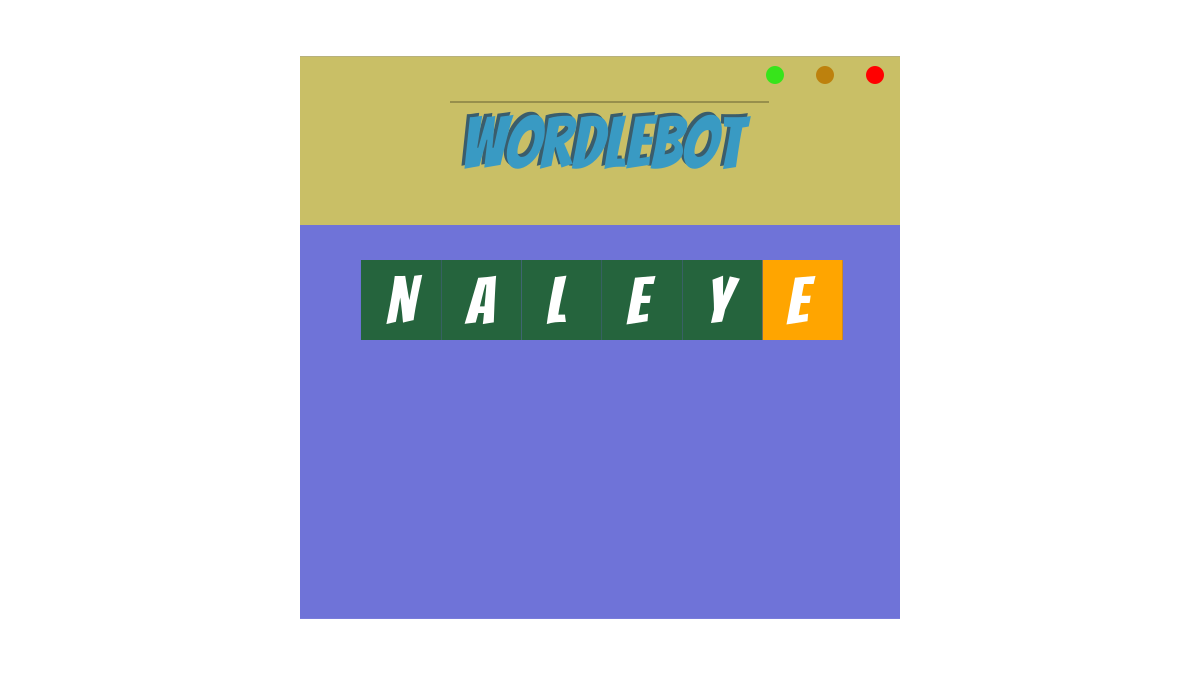
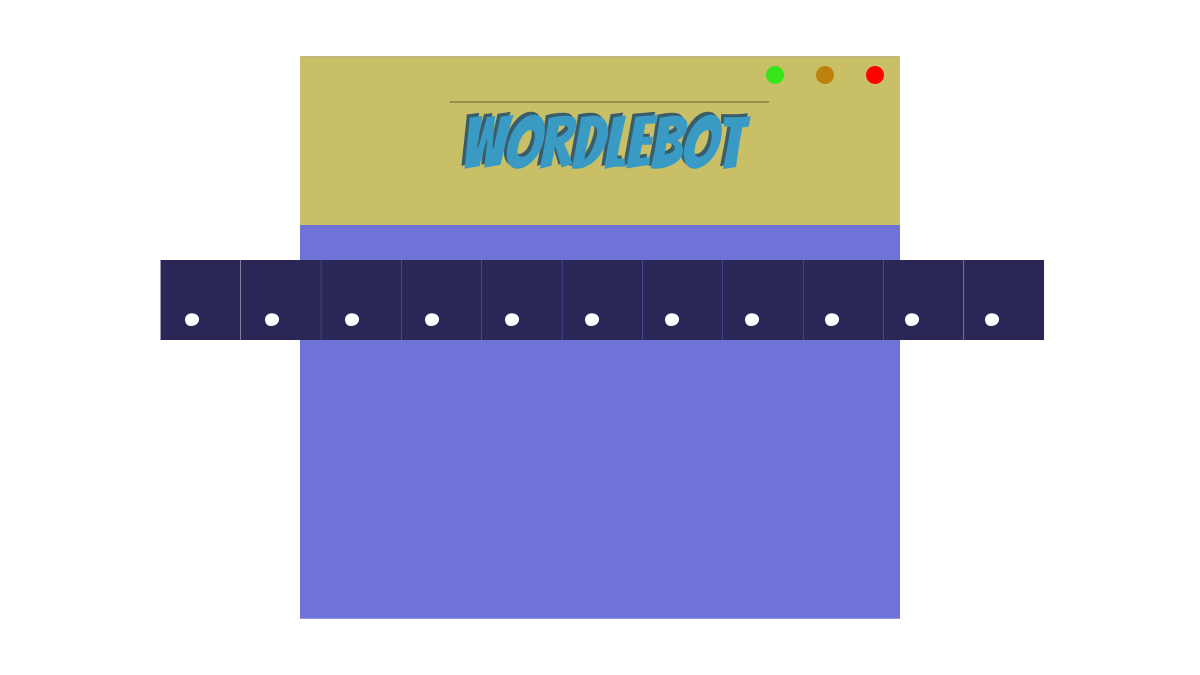
.gitignore

Changed region(s): [[0.1233, 0.3733, 0.8942, 0.5289]]

diff --git a/src/structures/Wordle.ts b/src/structures/Wordle.ts
@@ -22,29 +22,21 @@ export default class Wordle {
 
     public createRow(word: string, playerAttemps: [AttempMapType], round: number): void {
 
-        console.log("joué. Wordle", round)
+        console.log("<<< CreateRow >>>", round)
 
         let WORD = this.WORD.length;
- 
+
         const CUBE_SIZE = this.CANVAS_WIDTH / 15;
         const CUBE_OFFSET = 0.35;
         const ROW_SIZE = CUBE_SIZE * WORD + (WORD * CUBE_OFFSET) / 2;
         const CUBE_BASE = (this.CANVAS_WIDTH / 2 - ROW_SIZE / 2) + 1.5
 
-        if (round == 0) {
-            for (let i = 0; i < WORD; i++) {
-                this.GAME_CANVAS_CTX.fillStyle = '#2a2756'
-
-                //CUBE
-                this.GAME_CANVAS_CTX.fillRect(CUBE_BASE + (i * CUBE_SIZE) + CUBE_OFFSET * i, this.CANVAS_HEIGHT / 3 + 35, CUBE_SIZE, CUBE_SIZE)
-            }
-        }
 
         for (let a = round; a < playerAttemps.length; a++) {
             for (let i = 0; i < WORD; i++) {
                 console.log("ok")
                 //CUBE
-                switch (playerAttemps[a].get(i)) {
+                switch (playerAttemps[a].infoPosition.get(i)) {
                     case 0: {
                         this.GAME_CANVAS_CTX.fillStyle = '#2a27'
                         break;
@@ -70,6 +62,88 @@ export default class Wordle {
 
         this.saveCanvasToImg(this.GAME_CANVAS);
     }
+
+    public createEmptyRow(word: string, playerAttemps: [AttempMapType], round: number): void {
+
+        console.log("<<< CreateEmptyRow >>>", round)
+
+        let WORD = this.WORD.length;
+
+        const CUBE_SIZE = this.CANVAS_WIDTH / 15;
+        const CUBE_OFFSET = 0.35;
+        const ROW_SIZE = CUBE_SIZE * WORD + (WORD * CUBE_OFFSET) / 2;
+        const CUBE_BASE = (this.CANVAS_WIDTH / 2 - ROW_SIZE / 2) + 1.5
+   
+
+        for (let i = 0; i < WORD; i++) {
+
+
+            if(playerAttemps[round] ){
+                switch (playerAttemps[round].infoPosition.get(i)) {
+                    case 0: {
+                        this.GAME_CANVAS_CTX.fillStyle = '#2a27'
+                        this.GAME_CANVAS_CTX.fillRect(CUBE_BASE + (i * CUBE_SIZE) + CUBE_OFFSET * i, this.CANVAS_HEIGHT / 3 + 35 + round * CUBE_SIZE + round* CUBE_OFFSET, CUBE_SIZE, CUBE_SIZE)
+                        this.GAME_CANVAS_CTX.font = '65px Bangers '
+                        this.GAME_CANVAS_CTX.fillStyle = "#fff"
+                        this.GAME_CANVAS_CTX.fillText(word[i], (CUBE_BASE + (i * CUBE_SIZE) + CUBE_SIZE / 2 - 15), this.CANVAS_HEIGHT / 3 + 25 + round * CUBE_SIZE + round * CUBE_OFFSET + CUBE_SIZE - 6)
+            
+                        break;
+                    }
+                    default: {
+                        this.GAME_CANVAS_CTX.fillStyle = '#2a2756'
+                        this.GAME_CANVAS_CTX.fillRect(CUBE_BASE + (i * CUBE_SIZE) + CUBE_OFFSET * i, this.CANVAS_HEIGHT / 3 + 35 + round * CUBE_SIZE + round* CUBE_OFFSET, CUBE_SIZE, CUBE_SIZE)
+                        this.GAME_CANVAS_CTX.font = '65px Bangers '
+                        this.GAME_CANVAS_CTX.fillStyle = "#fff"
+                        this.GAME_CANVAS_CTX.fillText(".", (CUBE_BASE + (i * CUBE_SIZE) + CUBE_SIZE / 2 - 15), this.CANVAS_HEIGHT / 3 + 25 + round * CUBE_SIZE + round * CUBE_OFFSET + CUBE_SIZE - 6)
+            
+                        break;
+                    }
+                }
+            }
+            else if(playerAttemps[round-1]){
+                switch (playerAttemps[round-1].infoPosition.get(i)) {
+                    case 0: {
+                        this.GAME_CANVAS_CTX.fillStyle = '#2a27'
+                        this.GAME_CANVAS_CTX.fillRect(CUBE_BASE + (i * CUBE_SIZE) + CUBE_OFFSET * i, this.CANVAS_HEIGHT / 3 + 35 + round * CUBE_SIZE + round* CUBE_OFFSET, CUBE_SIZE, CUBE_SIZE)
+                        this.GAME_CANVAS_CTX.font = '65px Bangers '
+                        this.GAME_CANVAS_CTX.fillStyle = "#fff"
+                        this.GAME_CANVAS_CTX.fillText(word[i], (CUBE_BASE + (i * CUBE_SIZE) + CUBE_SIZE / 2 - 15), this.CANVAS_HEIGHT / 3 + 25 + round * CUBE_SIZE + round * CUBE_OFFSET + CUBE_SIZE - 6)
+            
+                        break;
+                    }
+                    default: {
+                        this.GAME_CANVAS_CTX.fillStyle = '#2a2756'
+                        this.GAME_CANVAS_CTX.fillRect(CUBE_BASE + (i * CUBE_SIZE) + CUBE_OFFSET * i, this.CANVAS_HEIGHT / 3 + 35 + round * CUBE_SIZE + round* CUBE_OFFSET, CUBE_SIZE, CUBE_SIZE)
+                        this.GAME_CANVAS_CTX.font = '65px Bangers '
+                        this.GAME_CANVAS_CTX.fillStyle = "#fff"
+                        this.GAME_CANVAS_CTX.fillText(".", (CUBE_BASE + (i * CUBE_SIZE) + CUBE_SIZE / 2 - 15), this.CANVAS_HEIGHT / 3 + 25 + round * CUBE_SIZE + round * CUBE_OFFSET + CUBE_SIZE - 6)
+            
+                        break;
+                    }
+                }
+
+            }
+            else{
+                this.GAME_CANVAS_CTX.fillStyle = '#2a2756'
+                this.GAME_CANVAS_CTX.fillRect(CUBE_BASE + (i * CUBE_SIZE) + CUBE_OFFSET * i, this.CANVAS_HEIGHT / 3 + 35 + round * CUBE_SIZE + round* CUBE_OFFSET, CUBE_SIZE, CUBE_SIZE)
+                this.GAME_CANVAS_CTX.font = '65px Bangers '
+                this.GAME_CANVAS_CTX.fillStyle = "#fff"
+                this.GAME_CANVAS_CTX.fillText(".", (CUBE_BASE + (i * CUBE_SIZE) + CUBE_SIZE / 2 - 15), this.CANVAS_HEIGHT / 3 + 25 + round * CUBE_SIZE + round * CUBE_OFFSET + CUBE_SIZE - 6)
+    
+            }
+
+            console.log(round)
+            //CUBE
+            
+
+            
+
+        }
+
+
+        this.saveCanvasToImg(this.GAME_CANVAS);
+    }
+
 
 
     public createBackground() {

diff --git a/src/structures/Game.ts b/src/structures/Game.ts
@@ -17,16 +17,23 @@ export default class Game implements GameInterface{
         public playerAttemps = [],
         public state: State="pending",
     ){
-        console.log(word)
 
-        this.canvas.createBackground();
-        //@ts-ignore
-        this.canvas.createRow(this.word.word,this.playerAttemps,this.round);
-
+        this.initCanvas();
+        console.log(this.word.word)
     }
 
+    public initCanvas(): void {
+
+        this.canvas = new Wordle(this.word.word);
+        this.canvas.createBackground();
+        
+        //@ts-ignore
+        this.canvas.createEmptyRow(this.word.word,this.playerAttemps,this.round);
+        
+    }
 
     public playWord(word: string): void{
+        
         
         word = word.toUpperCase();
         if(word.length !== this.word.word.length){
@@ -38,28 +45,38 @@ export default class Game implements GameInterface{
 
         else{
 
-            const attempMap: AttempMapType = new Map();
+            const attempMap: AttempMapType = {word,infoPosition: new Map()};
 
             for(let i=0;i<this.word.word.length;i++){
                 
 
                 if(word[i] === this.word.word[i]){
-                    attempMap.set(i,letterPosition.GOOD);
+                    attempMap.infoPosition.set(i,letterPosition.GOOD);
                 }
                 else if(this.word.word.indexOf(word[i]) > -1){
-                    attempMap.set(i,letterPosition.SOMEWHERE);
+                    attempMap.infoPosition.set(i,letterPosition.SOMEWHERE);
                 }
                 else {
-                    attempMap.set(i,letterPosition.BAD);
+                    attempMap.infoPosition.set(i,letterPosition.BAD);
                 }
 
             }
             this.playerAttemps.push(attempMap);
             this.canvas.createBackground();
+
+            for(var i=0;i<this.playerAttemps.length;i++){
+                console.log(i)  
+                //@ts-ignore
+                this.canvas.createRow(this.playerAttemps[i].word,this.playerAttemps,i);
+            }
+
+            
+
+
             //@ts-ignore
-            this.canvas.createRow(word,this.playerAttemps,this.round);
-            console.log("joué.")
+            this.canvas.createEmptyRow(attempMap.word,this.playerAttemps,this.round+1);
             this.round += 1;
+
         }
 
     }

diff --git a/src/index.ts b/src/index.ts
@@ -16,20 +16,27 @@ const G = new Game("FR");
 
 
 
-rl.question('Word :  ', (answer) => {
-    G.playWord(answer)
-    rl.close();
+rl.question('Premiere  tentetative : ', (answer1) => {
+    G.playWord(answer1);
+    rl.question('Deuxieme tentative : ', (answer2) => {
+        G.playWord(answer2)
+        rl.question('Deuxieme tentative : ', (answer3) => {
+          G.playWord(answer3)
+          rl.question('Deuxieme tentative : ', (answer4) => {
+            G.playWord(answer4)
+            console.log("ok") 
+            rl.close();
+        });
+          console.log("ok") 
+          rl.close();
+      });
+        console.log("ok") 
+        rl.close();
+    });
 
 });
-rl.question('Word : 2 ', (answer) => {
-    G.playWord(answer)
-    rl.close();
 
-});
-rl.question('Word : 3 ', (answer) => {
-    G.playWord(answer)
-    rl.close();
 
-});
+
 
 

diff --git a/src/typings/GameType.ts b/src/typings/GameType.ts
@@ -14,4 +14,11 @@ export interface GameInterface {
 
 }
 
-export type AttempMapType = Map<number,letterPosition> 
+interface MapAttempsValue {
+
+    infoPosition: Map<number,letterPosition>,
+    word: string
+
+}
+
+export type AttempMapType =  MapAttempsValue;

diff --git a/src/structures/Word.ts b/src/structures/Word.ts
@@ -22,6 +22,9 @@ export default class Word implements WordData {
     public setWord(value:string){
         this.word = value;
     }
+    /**
+     * 
+     */
 
     private pickRandomWord(): void {
         let path = wordlistFolder+'/'+this.langage+'/'
